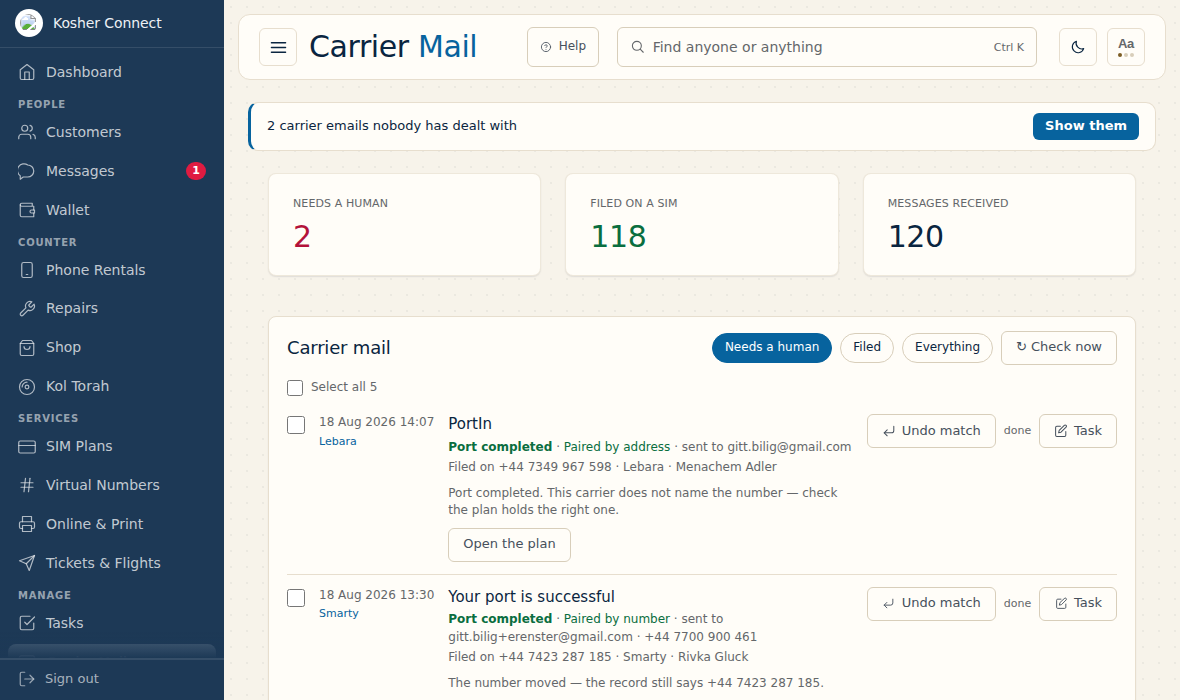
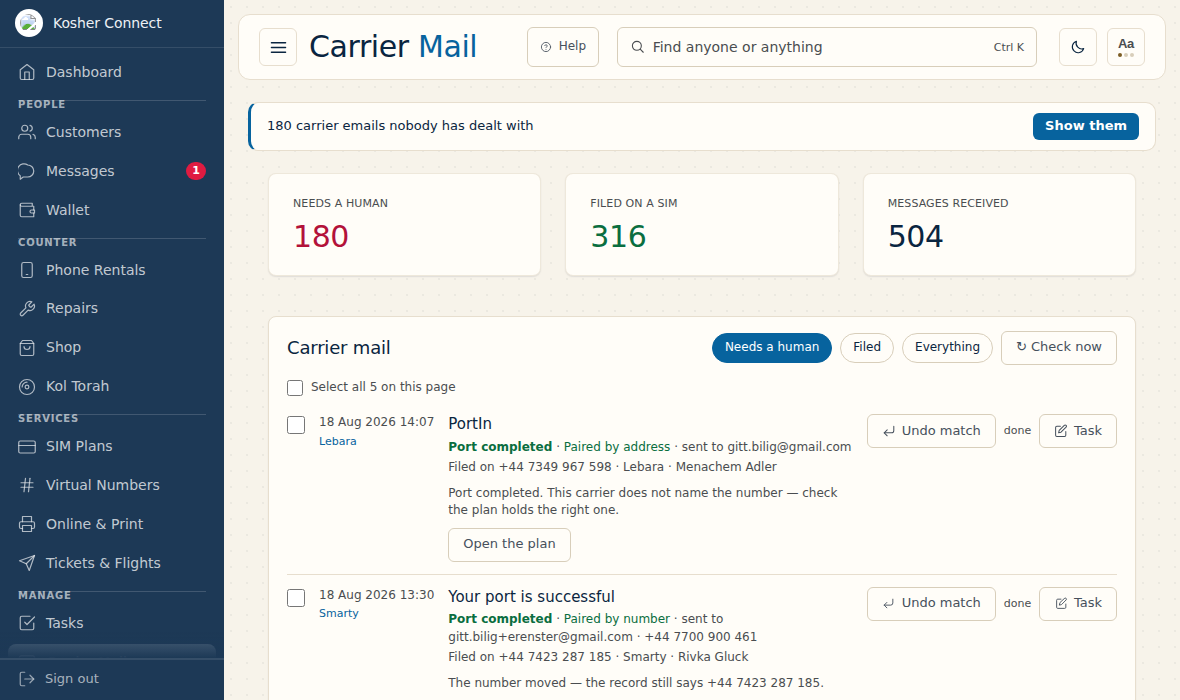
The carrier-mail queue admits it is a page, and lets you reach the rest
The screen this was filed to build already existed. The backlog said the
carrier-mail work still needed "a queue screen for the unpaired pile
(sim_mail.resolved_at is written by nothing yet)". Both halves were true on
16 Aug when that was written and neither is now: renderCarrierMailTab with
cmFilter='pending' IS that queue — candidates ranked, pair, dismiss, undo a
wrong match, bulk-clear a run of circulars — and /api/sim-mail writes
resolved_at on resolve, on pair and on unpair. The note is corrected rather
than a second screen being built beside the first.

What the queue genuinely could not do is reach the bottom of the pile. It
reads limit=60 and 180 messages are waiting. The card said 180, the list
underneath held 60, "Select all 60" read as all of them, and there was no way
to the other 120 — so the queue could be worked at for an afternoon and not
go down. Nothing looked broken, which is the worst version of wrong: the
counts were right the whole time and only the list disagreed with them.

/api/sim-mail now returns `shown` and `matching`, matching being the count
for THIS filter — exact, not a "we got a full page so there is probably more"
guess, because all three counts are already read in full for the header. The
list says "Showing the newest 5 of 180 that need a human" with a button for
the next lot, and the tick-all says it ticks the page.

A button, not an infinite scroll: this is a work list somebody is clearing,
[…]

diff --git a/public/main.js b/public/main.js
@@ -174,7 +174,7 @@ window.api = {
   // Booleans only — never the payment-method ids. See pages/api/payment-methods.js.
   getPaymentMethods: () => kcFetch('/api/payment-methods')
     .then(r => r.ok ? r.json() : null).catch(() => null),
-  getCarrierMail: (filter = 'pending') => kcFetch(`/api/sim-mail?filter=${encodeURIComponent(filter)}&limit=60`).then(r => r.ok ? r.json() : null),
+  getCarrierMail: (filter = 'pending', limit = 60) => kcFetch(`/api/sim-mail?filter=${encodeURIComponent(filter)}&limit=${encodeURIComponent(limit)}`).then(r => r.ok ? r.json() : null),
   getSimMail: (simLegacyId) => kcFetch(`/api/sim-mail?simLegacyId=${encodeURIComponent(simLegacyId)}`)
     .then(r => r.ok ? r.json() : null).catch(() => null),
   settleCarrierMail: (body) => kcFetch('/api/sim-mail', {
@@ -23134,7 +23134,12 @@ function kcPaintMsgBadge() {
 //              is nothing to pick — the SIM does not exist yet — so the row
 //              says so plainly and links to the customer search.
 let cmFilter = 'pending';
-let cmData = { counts: { pending: 0, paired: 0, total: 0 }, messages: [] };
+// How many of the queue this screen has asked for. The list has always been a
+// PAGE — 180 messages were waiting and 60 were on screen — and nothing said so,
+// which is why the pile could be worked at and not go down. See cmMore().
+const CM_PAGE = 60;
+let cmLimit = CM_PAGE;
+let cmData = { counts: { pending: 0, paired: 0, total: 0 }, messages: [], shown: 0, matching: 0 };
 
 // Inbound texts nobody has answered. Kept here rather than read off the message
 // log, because the log only loads when somebody opens Settings and presses a
@@ -23147,14 +23152,23 @@ async function renderCarrierMailTab() {
   const content = document.getElementById('mainContent');
   kcSkeleton('stats');
   let data = null;
-  try { data = await window.api.getCarrierMail(cmFilter); }
+  try { data = await window.api.getCarrierMail(cmFilter, cmLimit); }
   catch { content.innerHTML = errorHtml('Couldn’t load carrier mail'); return; }
   if (!data || !data.success) { content.innerHTML = errorHtml('Couldn’t load carrier mail'); return; }
   cmData = data;
   paintCarrierMail();
 }
 
-function cmSetFilter(f) { cmFilter = f; renderCarrierMailTab(); }
+function cmSetFilter(f) { cmFilter = f; cmLimit = CM_PAGE; renderCarrierMailTab(); }
+
+// Another page of the queue. Deliberately a button and not an infinite scroll:
+// this is a work list somebody is clearing, and a list that grows as you look
+// at it takes away the one thing that makes a pile finishable — being able to
+// see the bottom of what you took on.
+function cmMore() {
+  cmLimit += CM_PAGE;
+  renderCarrierMailTab();
+}
 
 function paintCarrierMail() {
   const content = document.getElementById('mainContent');
@@ -23164,6 +23178,14 @@ function paintCarrierMail() {
   // at 3.24:1 in light and 2.62:1 in dark. The harness caught it.
   const chip = (f, label) => `<button class="cm-chip ${cmFilter === f ? 'on' : ''}"
       onclick="cmSetFilter('${f}')" ${cmFilter === f ? 'aria-current="true"' : ''}>${label}</button>`;
+
+  // Is the list a page? `matching` is the count for THIS filter, read in full
+  // server-side beside the header counts, so this is exact rather than the
+  // usual "we got a full page, there is probably more".
+  const more = Number(cmData.matching || 0) > cmData.messages.length;
+  const matchWord = cmFilter === 'pending' ? 'that need a human'
+    : cmFilter === 'paired' ? 'already filed on a SIM'
+      : 'received';
 
   const rows = cmData.messages.length === 0
     ? `<div class="empty-state"><div class="emoji kc-ic ${cmFilter === 'pending' ? 'kc-ic-check' : 'kc-ic-postbox'}" aria-hidden="true"></div>
@@ -23207,9 +23229,22 @@ function paintCarrierMail() {
       ${cmData.messages.length ? `<label style="display:flex;align-items:center;gap:8px;font-size:var(--fs-small);color:var(--muted);padding:2px 0 6px;">
         <input type="checkbox" class="tm-check"
           ${cmData.messages.every(m => cmSelected.has(String(m.id))) ? 'checked' : ''}
-          onclick="cmSelectAll(this.checked)"> Select all ${cmData.messages.length}
+          onclick="cmSelectAll(this.checked)"> ${more
+            ? `Select all ${cmData.messages.length} on this page`
+            : `Select all ${cmData.messages.length}`}
       </label>` : ''}
       <div class="cm-list">${rows}</div>
+      ${/* Say what is on screen, and offer the rest. Without this the list
+            showed 60 of 180 and read as the whole queue — the counts card said
+            180 the whole time and the list underneath it quietly disagreed,
+            which is the worst version of wrong: nothing looks broken. */''}
+      ${more ? `
+        <div class="cm-more">
+          <p>Showing the newest <strong>${cmData.messages.length}</strong> of
+             <strong>${cmData.matching}</strong> ${matchWord}.</p>
+          <button class="btn btn-outline" onclick="cmMore()">
+            Show ${Math.min(CM_PAGE, cmData.matching - cmData.messages.length)} more</button>
+        </div>` : ''}
     </div>`;
 }
 

diff --git a/pages/api/sim-mail.js b/pages/api/sim-mail.js
@@ -285,10 +285,27 @@ async function handler(req, res) {
       selectAllPaged('sim_mail', 'id', 'order=id.asc'),
     ])
 
+    // How many this filter actually has, beside how many are on this page.
+    //
+    // The list is a PAGE and never said so. With 180 rows waiting and a limit
+    // of 60 the screen showed a third of the queue, said "Select all 60" as
+    // though that were all of them, and offered no way to reach the other 120 —
+    // so the pile could be worked at for an afternoon and not go down. The
+    // counts were right the whole time, which is what made it invisible: the
+    // card said 180 and the list underneath it quietly disagreed.
+    //
+    // Exact, not a guess. The three counts are already read in full above for
+    // the header, so naming which one this filter is showing costs nothing.
+    const matching = filter === 'paired' ? paired.length
+      : filter === 'all' ? total.length
+        : pending.length
+
     return res.json({
       success: true,
       counts: { pending: pending.length, paired: paired.length, total: total.length },
       messages,
+      shown: messages.length,
+      matching,
     })
   }
 

diff --git a/styles/app.css b/styles/app.css
@@ -5686,3 +5686,19 @@ body.kc-resizing, body.kc-resizing * { user-select: none !important; cursor: ns-
 }
 .sms-suggest-chip:hover { background: var(--primary-subdued); border-color: var(--accent); color: var(--accent); }
 .sms-suggest-chip:focus-visible { outline: 2px solid var(--accent); outline-offset: 2px; }
+
+/* ─── The carrier-mail queue knows it is a page ───
+   Centred under the list, quiet: it is a fact about the list rather than an
+   action the screen is pushing. A plain .btn, not a .btn-sm: on a coarse
+   pointer the house rule takes it to 44px (2.5.5, AAA), and this is pressed
+   with a thumb on the counter tablet while the other hand holds a phone. */
+.cm-more {
+  display: flex; flex-direction: column; align-items: center; gap: 8px;
+  padding: 16px 0 6px; margin-top: 6px;
+  border-top: 1px solid var(--border-subtle);
+}
+.cm-more p {
+  margin: 0; color: var(--muted);
+  font-size: var(--fs-small); text-align: center;
+}
+.cm-more strong { color: var(--text); font-weight: 600; }

diff --git a/docs/MANUAL.md b/docs/MANUAL.md
@@ -11,7 +11,7 @@ BUSINESS_RULES.md and in Settings, never here, so there is only ever one price
 list.
 
 **30 of 30 screens written out in full.**
-*As of 28 Aug 2026 · m-07440734 — the code changes whenever the words do, so a printout can be checked against this line.*
+*As of 28 Aug 2026 · m-b61eaffa — the code changes whenever the words do, so a printout can be checked against this line.*
 
 ---
 
@@ -595,7 +595,7 @@ Post arriving from the networks — renewals, ports, warnings, payment problems 
 **On the screen**
 
 - **The live toast** — While the app is open, a small message appears within the minute when carrier post arrives — the sender and the subject, for a few seconds. A handful arriving together compress into one line. Post from before the app was opened does not toast; it is already on this screen.
-- **Needs a human** — The queue: messages the app could not confidently file. This is the whole job of the screen.
+- **Needs a human** — The queue: messages the app could not confidently file. This is the whole job of the screen. A long queue arrives a page at a time — the card above says how many are waiting altogether, and a line under the list says how many of those are on screen, with a button for the next lot. The tick-all above the list ticks the page you are looking at, and says so.
 - **Undo match** — Puts a message that is filed on a SIM back into the queue for somebody to file by hand. Most matches are made automatically and nobody sees them being made, so this is how a wrong one gets corrected. The nightly sweep will not re-match it afterwards — you have said the automatic answer was wrong, and it should not argue with you.
 - **Forward to customers** — Owner only. Carrier mail worth sending on to the person whose line it is. The four everyday kinds — a renewal receipt, a payment that failed, a completed port, something about to expire — now forward THEMSELVES the moment they arrive, and a sign-in code goes too, fastest of all, when the app is certain beyond doubt whose it is. This queue is what remains: everything the automatic path was not certain enough to send, shown with what would go, to whom, and what is stopping it. Nothing anywhere decides whose a message is by guessing — a forward only ever follows what the message is already filed against, and a message covering more than one number goes to nobody at all.
 - **What the message means** — Every row says what it IS before it says whose it is — renewing soon, renewed, about to expire, port completed, PAC code, payment problem, payment method removed. The ports and the money ones are the ones that carry colour, because they are the ones that mean work; the renewals are the wallpaper.

diff --git a/ops/loops/kc-improve/BACKLOG.md b/ops/loops/kc-improve/BACKLOG.md
@@ -792,9 +792,20 @@ not been re-checked against the code and may have drifted the same way.
       forwards into `/api/inbound/mail`, pairs to a SIM on the per-SIM recipient
       address (417 exactly, 317 via the number in the message), and the daily
       sweep raises SIMNEW for numbers that are live at a carrier but absent from
-      the app. Setup steps in `docs/INBOUND-MAIL.md`. Remaining: the owner's
-      three config steps, then a queue screen for the unpaired pile
-      (`sim_mail.resolved_at` is written by nothing yet).
+      the app. Setup steps in `docs/INBOUND-MAIL.md`.
+      **The screen half of this is done, and this line was stale.** It said a
+      queue screen was still to build and that `sim_mail.resolved_at` was
+      written by nothing. Both were true on 16 Aug when it was written and
+      neither is now: the Carrier Mail tab's "Needs a human" filter IS that
+      queue — candidates ranked, pair, dismiss, undo a wrong match, bulk-clear
+      a run of circulars — and `/api/sim-mail` writes `resolved_at` on resolve,
+      on pair and on unpair. Corrected 28 Aug, when the note nearly bought a
+      second screen beside the first.
+      What the queue genuinely could not do was reach the bottom of the pile:
+      it read 60 rows against 180 waiting and never said it was a page. Fixed
+      the same day — the list says how many of how many it is showing and
+      offers the rest.
+      **What remains is the owner's three config steps, and nothing else.**
 
 ### Money not being collected
 
